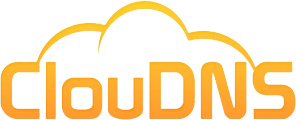
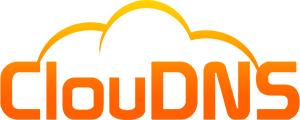
Update sponsors (closes #305)

diff --git a/src/views/pages/sponsors.html b/src/views/pages/sponsors.html
@@ -157,6 +157,20 @@
 							</a>
 						</div>
 					</div>
+
+					<div class="col-md-4 col-sm-6 col-xs-8 col-xs-push-2 col-sm-push-0 ">
+						<div class="sp">
+							<img class="sp-img" src="/img/sponsors/cloudns.png" srcset="/img/sponsors/cloudns@2x.png 2x">
+
+							<div class="sp-text">
+								ClouDNS is offering Premium, DDoS Protected, and GeoDNS services supported by Global Anycast network.
+							</div>
+
+							<a target="_blank" href="https://www.cloudns.net/" class="sp-link">
+								<i class="fa fa-globe" aria-hidden="true"></i> Go to website
+							</a>
+						</div>
+					</div>
 				</div>
 			</div>
 
@@ -176,14 +190,6 @@
 						<div class="sp">
 							<a target="_blank" href="https://www.clever-cloud.com">
 								<img class="sp-img" src="/img/sponsors/clever-cloud.png" srcset="/img/sponsors/clever-cloud@2x.png 2x">
-							</a>
-						</div>
-					</div>
-
-					<div class="col-md-4 col-sm-6 col-xs-8 col-xs-push-2 col-sm-push-0 ">
-						<div class="sp">
-							<a target="_blank" href="https://www.cloudns.net/">
-								<img class="sp-img" src="/img/sponsors/cloudns.png" srcset="/img/sponsors/cloudns@2x.png 2x">
 							</a>
 						</div>
 					</div>
